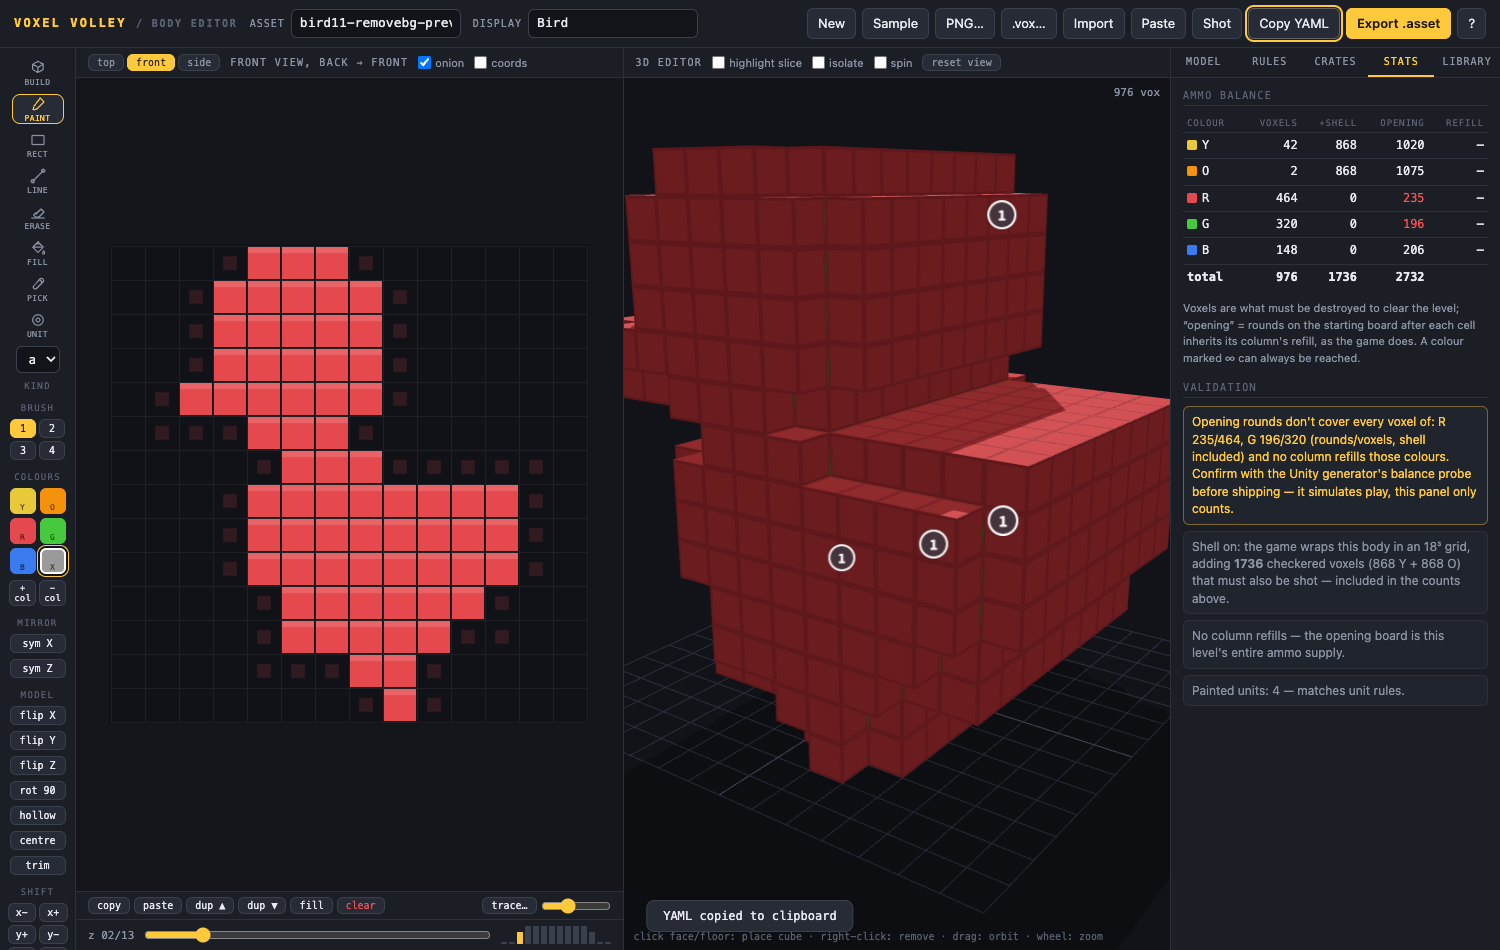
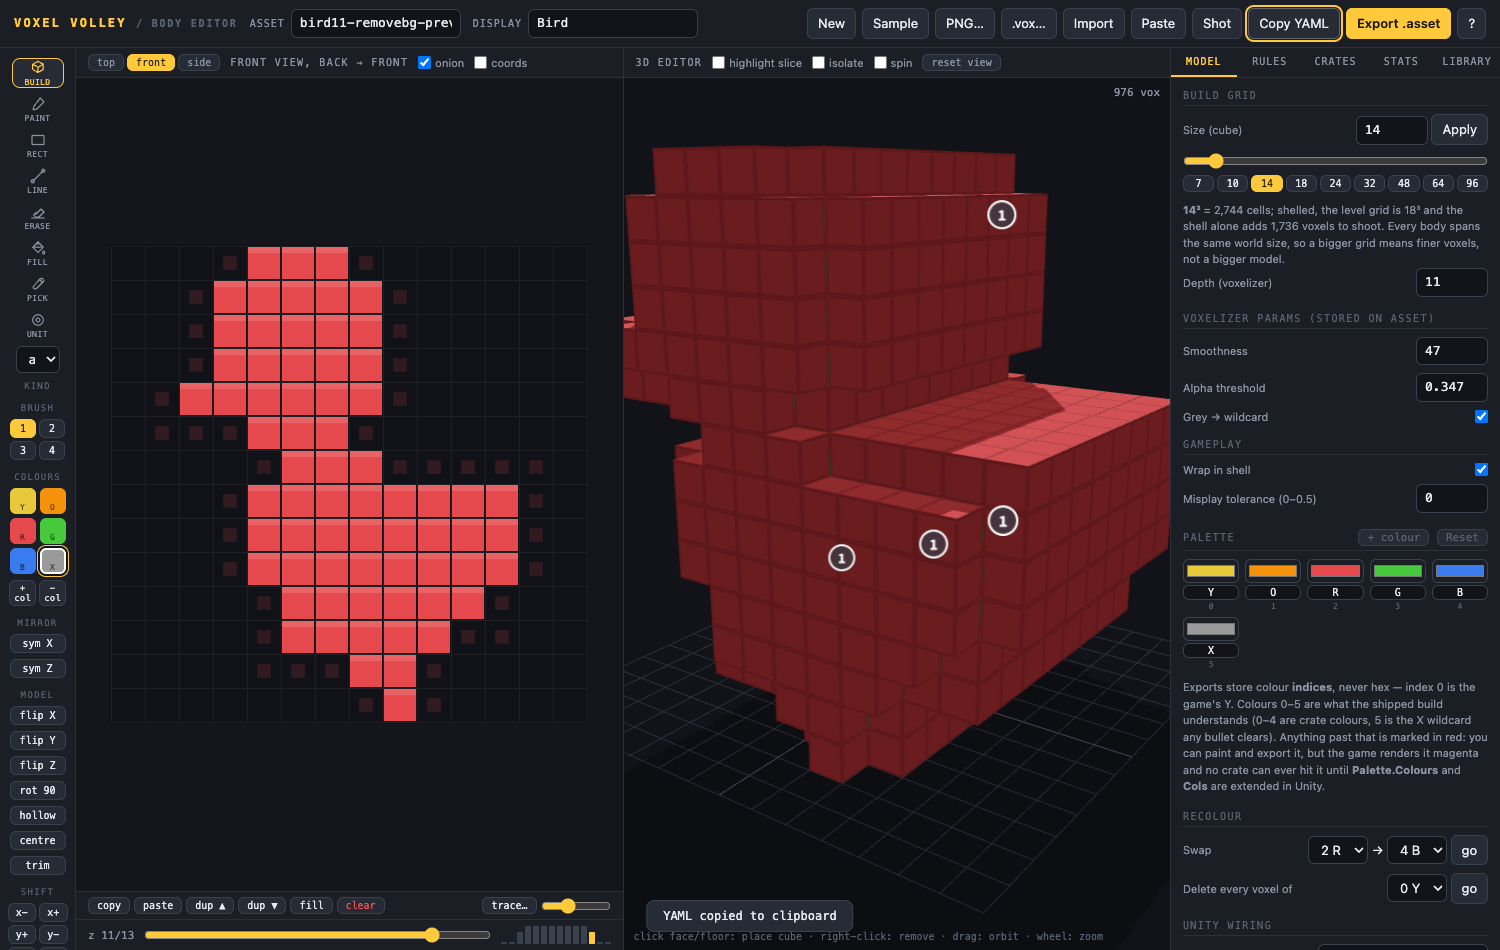
Make the build grid any size, and stop losing voxels when it shrinks
The size is now a first-class control: a number field, a slider that previews
live and applies on release, and presets from 7 to 96. No design cap — the
[Range(3, 24)] on VoxelBody.size only limits Unity's inspector slider, not what
deserializes, and VoxelCore is written for a variable grid, so any size imports
and plays. The Range warning is gone; raising it in VoxelBody.cs is the user's
call and the README says why they might want to.

The only remaining ceiling is MAX_N in state.js (128), and it is about browser
memory rather than the format or the game. Measured, all byte-identical:
32³ 0.1 MB / 4 ms, 64³ 1.0 MB / 30 ms, 96³ 3.4 MB / 89 ms, 128³ 8.0 MB / 228 ms.

Two real bugs surfaced while opening it up, both pre-existing:

- resizeGrid centred the old grid inside the new one, so shrinking shifted a
  model resting on the floor to a negative y and dropped it entirely — even a
  2×2×2 body being moved into an 8³ grid vanished. The shift is now clamped per
  axis so anything that FITS is always preserved, and the confirm prompt fires
  only when the content's own span genuinely exceeds the new size.
- trimToContent clamped to a hard-coded 24, so trimming a model larger than that
  silently clipped it.

Undo held 200 whole-grid snapshots, which at 128³ would be ~840 MB. The history
is now bounded by bytes as well as by count: still the full 200 steps at 14³, and
as many as fit on a huge grid. The 3D instance buffer is also demand-driven
[…]

diff --git a/js/state.js b/js/state.js
@@ -2,8 +2,18 @@
 // autosave and all views stay consistent.
 
 export const EMPTY = 255;
-// VoxelBody.size is [Range(3, 24)] in Unity — stay inside the supported envelope
-export const MIN_N = 3, MAX_N = 24;
+
+/* ---------- grid size ----------
+   The asset stores a CUBE of `size`, so the build volume is always size³ —
+   non-cubic grids are not expressible in the format.
+
+   MAX_N is a MEMORY ceiling, not a design rule: nothing in the format or in the
+   game caps the size (VoxelCore is written for a variable grid), so this is only
+   about what a browser tab can hold. The grids are two byte-per-cell arrays, the
+   undo history keeps snapshots of them, and an export writes size³ × 2 hex chars
+   per grid — at 128³ that is ~4 MB live, and a ~17 MB .asset. Raise it if you
+   need to; it is one number.                                                  */
+export const MIN_N = 3, MAX_N = 128;
 export const DEFAULT_GUID = '8154fcdcf86ef414a8a725fd872e9180';
 
 export function defaultMeta(){
@@ -113,6 +123,20 @@ export function axisInfo(axis = sel.sliceAxis){
 /* ---------- undo / redo ---------- */
 const undoStack = [], redoStack = [];
 const MAX_UNDO = 200;
+// Snapshots are two byte-per-cell copies of the grid, so a deep history on a big
+// grid is what would actually exhaust the tab: 200 × 128³ × 2 would be ~840 MB.
+// The history is therefore bounded by BYTES as well as by count — at 14³ that is
+// still the full 200 steps, and at 128³ it keeps as many as fit.
+const MAX_UNDO_BYTES = 192 * 1024 * 1024;
+function snapshotBytes(s){ return s.c.length + s.u.length; }
+function trimHistory(){
+  if(undoStack.length > MAX_UNDO) undoStack.splice(0, undoStack.length - MAX_UNDO);
+  let bytes = 0;
+  for(const s of undoStack) bytes += snapshotBytes(s);
+  while(undoStack.length > 1 && bytes > MAX_UNDO_BYTES) bytes -= snapshotBytes(undoStack.shift());
+}
+/** How deep the undo history currently is — surfaced in the UI for big grids. */
+export const undoDepth = () => undoStack.length;
 // snapshots deep-copy meta too: model-replacing paths (import/new/library load)
 // swap state.meta wholesale, and rules/crates mutate it in place — undo must
 // restore the full model, not just the voxels.
@@ -124,7 +148,7 @@ function snapshot(){
 }
 export function pushUndo(){
   undoStack.push(snapshot());
-  if(undoStack.length > MAX_UNDO) undoStack.shift();
+  trimHistory();
   redoStack.length = 0;
 }
 export function popUndo(){ undoStack.pop(); }     // for no-op edits
@@ -151,6 +175,26 @@ export function setGrid(n, colours, units){
   if(sizeChanged) emit('gridsize');
   emit('grid');
 }
+/** Bounding box of the solid voxels in the CURRENT grid, or null when empty. */
+export function contentBounds(){
+  const N = state.N;
+  let x0=N,y0=N,z0=N,x1=-1,y1=-1,z1=-1;
+  for(let z=0;z<N;z++) for(let y=0;y<N;y++) for(let x=0;x<N;x++){
+    if(state.colours[(x*N+y)*N+z] === EMPTY) continue;
+    if(x<x0)x0=x; if(y<y0)y0=y; if(z<z0)z0=z;
+    if(x>x1)x1=x; if(y>y1)y1=y; if(z>z1)z1=z;
+  }
+  return x1 < 0 ? null : {x0,y0,z0,x1,y1,z1};
+}
+/**
+ * Does the model still fit after resizing to `nn`? Only false when the content's
+ * own span exceeds the new grid, i.e. when voxels genuinely have to be cut.
+ */
+export function resizeWouldClip(nn){
+  const b = contentBounds();
+  if(!b) return false;
+  return (b.x1-b.x0+1) > nn || (b.y1-b.y0+1) > nn || (b.z1-b.z0+1) > nn;
+}
 export function resizeGrid(nn){
   nn = Math.max(MIN_N, Math.min(MAX_N, nn|0));
   if(nn === state.N) return false;
@@ -158,12 +202,23 @@ export function resizeGrid(nn){
   const on = state.N, oc = state.colours, ou = state.units;
   const nc = new Uint8Array(nn*nn*nn).fill(EMPTY);
   const nu = new Uint8Array(nn*nn*nn);
-  const off = Math.floor((nn-on)/2);
+
+  // Keep the model's position relative to the grid centre, but clamp the shift so
+  // content that FITS is never cut. Plain centring loses a model resting on the
+  // floor when shrinking (y0 would go negative), which is exactly where bodies sit.
+  const b = contentBounds();
+  let ox = Math.floor((nn-on)/2), oy = ox, oz = ox;
+  if(b){
+    const fit = (off, lo, hi) => Math.max(-lo, Math.min(nn-1-hi, off));
+    if((b.x1-b.x0+1) <= nn) ox = fit(ox, b.x0, b.x1);
+    if((b.y1-b.y0+1) <= nn) oy = fit(oy, b.y0, b.y1);
+    if((b.z1-b.z0+1) <= nn) oz = fit(oz, b.z0, b.z1);
+  }
   for(let z=0; z<on; z++) for(let y=0; y<on; y++) for(let x=0; x<on; x++){
-    const tx=x+off, ty=y+off, tz=z+off;
+    const tx=x+ox, ty=y+oy, tz=z+oz;
     if(tx<0||ty<0||tz<0||tx>=nn||ty>=nn||tz>=nn) continue;
-    nc[tx+ty*nn+tz*nn*nn] = oc[x+y*on+z*on*on];
-    nu[tx+ty*nn+tz*nn*nn] = ou[x+y*on+z*on*on];
+    nc[(tx*nn+ty)*nn+tz] = oc[(x*on+y)*on+z];
+    nu[(tx*nn+ty)*nn+tz] = ou[(x*on+y)*on+z];
   }
   setGrid(nn, nc, nu);
   return true;

diff --git a/js/main.js b/js/main.js
@@ -1,7 +1,7 @@
 // App bootstrap and wiring.
 
 import {
-  state, sel, EMPTY, defaultMeta,
+  state, sel, EMPTY, MIN_N, MAX_N, defaultMeta, resizeWouldClip,
   on, emit, pushUndo, undo, redo, setGrid, resizeGrid,
   voxelCount, serialize, deserialize,
 } from './state.js';
@@ -242,6 +242,37 @@ function wireToolRail(){
   });
 }
 
+/* ---------- build grid size ---------- */
+function syncSizeUI(){
+  const s = $('fSize'), r = $('fSizeRange');
+  if(!s) return;
+  s.value = state.N;
+  if(r) r.value = state.N;
+  document.querySelectorAll('[data-size]').forEach(b => {
+    const n = parseInt(b.dataset.size);
+    b.classList.toggle('on', n === state.N);
+  });
+  updateSizeNote(state.N);
+}
+function updateSizeNote(n){
+  const el = $('sizeNote');
+  if(!el) return;
+  const cells = n*n*n;
+  const shellN = state.meta.wrapInShell ? n + 4 : n;
+  const shell = state.meta.wrapInShell ? shellN**3 - (shellN-2)**3 : 0;
+  let msg = `<b>${n}³</b> = ${cells.toLocaleString()} cells`;
+  if(shell) msg += `; shelled, the level grid is ${shellN}³ and the shell alone adds ` +
+    `${shell.toLocaleString()} voxels to shoot`;
+  msg += '. Every body spans the same world size, so a bigger grid means finer voxels, not a bigger model.';
+  // measured: 128³ exports in ~230 ms to an 8 MB asset, so only really large
+  // grids are worth a word — 64³ is comfortable
+  if(cells > 500000)
+    msg += ` <span class="warnA">${cells.toLocaleString()} cells: rebuilds get slower, the undo history` +
+           ` gets shallower (it is memory-bounded) and the .asset will be around` +
+           ` ${Math.round(cells*4/1048576)} MB.</span>`;
+  el.innerHTML = msg;
+}
+
 /* ---------- palette ---------- */
 function renderSwatches(){
   const pal = $('palette');
@@ -429,11 +460,32 @@ function wireModelTab(){
     state.meta.crateRows = next;
     renderCrates();
   });
-  $('btnResize').addEventListener('click', () => {
-    if(resizeGrid(parseInt($('fSize').value) || state.N))
-      toast('Resized to ' + state.N + '³ (content centered)');
-    $('fSize').value = state.N;
+  /* ---------- build grid size ---------- */
+  const applySize = n => {
+    const want = Math.max(MIN_N, Math.min(MAX_N, n|0));
+    if(want === state.N){ syncSizeUI(); return; }
+    // only warn when voxels genuinely have to be cut — resizeGrid clamps the
+    // shift so anything that fits survives
+    if(resizeWouldClip(want) && !confirm(
+      `The model is bigger than ${want}³ and part of it will be cut off. ` +
+      `"trim" resizes to fit without losing anything. Continue?`)){
+      syncSizeUI();
+      return;
+    }
+    if(resizeGrid(want)) toast('Build grid is now ' + state.N + '³ (content centred)');
+    syncSizeUI();
+  };
+  $('btnResize').addEventListener('click', () => applySize(parseInt($('fSize').value) || state.N));
+  $('fSize').addEventListener('keydown', e => { if(e.key === 'Enter') applySize(parseInt($('fSize').value) || state.N); });
+  // the slider previews the number live and applies on release, so a drag does
+  // not rebuild the grid dozens of times
+  $('fSizeRange').addEventListener('input', e => {
+    $('fSize').value = e.target.value;
+    updateSizeNote(parseInt(e.target.value));
   });
+  $('fSizeRange').addEventListener('change', e => applySize(parseInt(e.target.value)));
+  document.querySelectorAll('[data-size]').forEach(b =>
+    b.addEventListener('click', () => applySize(parseInt(b.dataset.size))));
 
   renderPaletteEditor();
   renderColourSelects();
@@ -457,7 +509,8 @@ function wireModelTab(){
     toast(n ? `Deleted ${n} ${labelOf(c)} voxel(s)` : `No ${labelOf(c)} voxels`, !n);
   });
 
-  on('gridsize', () => { $('fSize').value = state.N; });
+  on('gridsize', syncSizeUI);
+  syncSizeUI();
 }
 
 /* =====================================================================

diff --git a/js/editor3d.js b/js/editor3d.js
@@ -159,18 +159,36 @@ function makeCubeMaterial(){
 }
 let cubeMaterial = null;
 
-function ensureCapacity(){
-  const need = state.N ** 3;
+/**
+ * Grows the instance buffer to hold `need` cubes.
+ *
+ * Demand-driven rather than sized to N³: a 64³ grid would reserve 262k instances
+ * (and their matrices) for a model that usually holds a few thousand voxels. It
+ * grows in generous steps and never shrinks, so painting does not reallocate.
+ */
+function ensureCapacity(need){
   if(voxMesh && voxCapacity >= need) return;
+  const grown = Math.min(state.N ** 3, Math.max(4096, Math.ceil(need * 1.5)));
   if(voxMesh){ scene.remove(voxMesh); voxMesh.dispose(); }
   if(!cubeMaterial) cubeMaterial = makeCubeMaterial();
-  voxMesh = new THREE.InstancedMesh(new THREE.BoxGeometry(1,1,1), cubeMaterial, need);
+  voxMesh = new THREE.InstancedMesh(new THREE.BoxGeometry(1,1,1), cubeMaterial, grown);
   voxMesh.castShadow = true;
   voxMesh.receiveShadow = true;
   voxMesh.instanceMatrix.setUsage(THREE.DynamicDrawUsage);
-  voxCapacity = need;
-  cellOfInstance = new Int32Array(need);
+  voxCapacity = grown;
+  cellOfInstance = new Int32Array(grown);
   scene.add(voxMesh);
+}
+/** Cubes the current cut will draw — what ensureCapacity has to cover. */
+function visibleCount(){
+  const N = state.N, c = state.colours;
+  let n = 0;
+  for(let z=0; z<N; z++) for(let y=0; y<N; y++) for(let x=0; x<N; x++){
+    if(c[idx(x,y,z)] === EMPTY) continue;
+    if(sel.isolate && cellToSlice(x,y,z).s > sel.slice) continue;
+    n++;
+  }
+  return n;
 }
 
 const _m = new THREE.Matrix4();
@@ -185,7 +203,7 @@ function cutNeedsRebuild(){
 }
 
 function rebuild(){
-  ensureCapacity();
+  ensureCapacity(visibleCount());
   const N = state.N, c = state.colours;
   let count = 0;
   for(let z=0; z<N; z++) for(let y=0; y<N; y++) for(let x=0; x<N; x++){

diff --git a/index.html b/index.html
@@ -159,10 +159,23 @@
     </div>
 
     <div class="tabpane active" id="tab-model">
-      <div class="sechead">Grid</div>
-      <div class="frow"><label for="fSize">Size (cube, 3–24)</label>
-        <span><input type="number" id="fSize" min="3" max="24"> <button id="btnResize">Apply</button></span></div>
-      <div class="frow"><label for="fDepth">Depth (voxelizer)</label><input type="number" id="fDepth" min="1" max="24"></div>
+      <div class="sechead">Build grid</div>
+      <div class="frow"><label for="fSize">Size (cube)</label>
+        <span><input type="number" id="fSize" min="3" max="128"> <button id="btnResize">Apply</button></span></div>
+      <input type="range" id="fSizeRange" min="3" max="128" class="wide" aria-label="Grid size">
+      <div class="sizePresets">
+        <button class="minibtn" data-size="7">7</button>
+        <button class="minibtn" data-size="10">10</button>
+        <button class="minibtn" data-size="14">14</button>
+        <button class="minibtn" data-size="18">18</button>
+        <button class="minibtn" data-size="24">24</button>
+        <button class="minibtn" data-size="32">32</button>
+        <button class="minibtn" data-size="48">48</button>
+        <button class="minibtn" data-size="64">64</button>
+        <button class="minibtn" data-size="96">96</button>
+      </div>
+      <p class="note" id="sizeNote"></p>
+      <div class="frow"><label for="fDepth">Depth (voxelizer)</label><input type="number" id="fDepth" min="1" max="128"></div>
       <div class="sechead">Voxelizer params (stored on asset)</div>
       <div class="frow"><label for="fSmooth">Smoothness</label><input type="number" id="fSmooth" min="0" max="100"></div>
       <div class="frow"><label for="fAlpha">Alpha threshold</label><input type="number" id="fAlpha" min="0" max="1" step="0.001"></div>

diff --git a/css/style.css b/css/style.css
@@ -167,11 +167,19 @@ table.rules .del:hover{border-color:var(--bad)}
 .note{color:var(--mut);font-size:11px;margin-top:10px;line-height:1.5}
 .okA{color:var(--good)}
 .badA{color:var(--bad)}
+.warnA{color:var(--acc)}
 ul.valid{list-style:none;font-size:12px;display:flex;flex-direction:column;gap:6px}
 ul.valid li{padding:6px 8px;border-radius:6px;border:1px solid var(--line);background:var(--panel2)}
 ul.valid li.vwarn{border-color:rgba(255,201,60,.4);color:var(--acc)}
 ul.valid li.vinfo{color:var(--mut)}
 ul.valid li.vok{color:var(--good)}
+
+/* grid size */
+input[type=range].wide{width:100%;accent-color:var(--acc);margin-bottom:6px}
+.sizePresets{display:flex;gap:3px;margin-bottom:6px;flex-wrap:wrap}
+.sizePresets .minibtn{width:auto;flex:1;min-width:26px;padding:2px 0}
+.sizePresets .minibtn.on{background:var(--acc);border-color:var(--acc);color:var(--acc-ink)}
+.sizePresets .minibtn.over{color:var(--acc)}
 
 /* palette editor */
 .palEdit{display:grid;grid-template-columns:repeat(auto-fill,minmax(46px,1fr));gap:6px;margin-bottom:8px}

diff --git a/js/asset.js b/js/asset.js
@@ -3,7 +3,7 @@
 // produced by the Unity tool — verified byte-identical on a round-trip of a
 // real asset. Change with care: the Unity importer and this file must agree.
 
-import { EMPTY, DEFAULT_GUID, defaultMeta } from './state.js';
+import { EMPTY, DEFAULT_GUID, defaultMeta, MIN_N, MAX_N } from './state.js';
 
 export function parseAsset(text){
   const lines = text.split(/\r?\n/);
@@ -33,7 +33,8 @@ export function parseAsset(text){
 
   const num = v => { const f = parseFloat(v); return Number.isFinite(f) ? f : 0; };
   const size = Math.round(num(top.size)) || Math.round(Math.cbrt((top.colours||'').length/2));
-  if(size < 2 || size > 64) throw new Error('Bad grid size: ' + size);
+  if(size < MIN_N || size > MAX_N)
+    throw new Error(`Bad grid size ${size} — this editor handles ${MIN_N}–${MAX_N}.`);
   const cells = size*size*size;
   const hexToArr = (hex, fillv) => {
     const a = new Uint8Array(cells).fill(fillv);

diff --git a/js/stats.js b/js/stats.js
@@ -197,8 +197,6 @@ export function updateStats(){
   const ruled = state.meta.unitRules.reduce((s,r) => s+r.count, 0);
 
   if(bodyTotal === 0) warn.push('Model is empty — nothing to export.');
-  if(state.N < 3 || state.N > 24)
-    warn.push(`Size ${state.N} is outside VoxelBody's supported range (3–24) and will be clamped in Unity.`);
   if(beyond)
     warn.push(`${beyond} voxel(s) use colour ${GAME_COLOURS} or above. This game build renders those magenta and no crate can ever mint their colour, so the level cannot be cleared. Extend <b>Palette.Colours</b> and <b>Cols</b> in Unity (and <b>CrateColourCount</b> if they should be shootable), then raise GAME_COLOURS in palette.js.`);
   if(body.other)

diff --git a/js/tools.js b/js/tools.js
@@ -3,7 +3,7 @@
 // everywhere.
 
 import {
-  state, sel, clip, EMPTY, idx, sliceIdx, sliceToCell, cellToSlice, inBounds,
+  state, sel, clip, EMPTY, MIN_N, MAX_N, idx, sliceIdx, sliceToCell, cellToSlice, inBounds,
   pushUndo, popUndo, emit,
 } from './state.js';
 import { colourCount } from './palette.js';
@@ -460,7 +460,7 @@ export function trimToContent(margin = 0){
   const b = bounds();
   if(!b) return 'model is empty';
   const span = Math.max(b.x1-b.x0, b.y1-b.y0, b.z1-b.z0) + 1 + 2*Math.max(0, margin);
-  const nn = Math.max(3, Math.min(24, span));
+  const nn = Math.max(MIN_N, Math.min(MAX_N, span));
   if(nn === state.N) return 'already tight';
 
   pushUndo();

diff --git a/README.md b/README.md
@@ -69,12 +69,49 @@ paid services: host it on GitHub Pages for free.
 | Slice editing | Cut along **any axis** — top view (stack layers bottom-up), front view (the elevation a sprite is drawn in), side view — with onion skin, occupancy strip, coordinate overlay, and a **tracing image** you can load behind the grid to draw over |
 | Tools | Build, paint, rectangle, **line**, erase, flood fill (slice area / 3D connected region), colour picker, unit placement; **brush sizes 1–4**; mirror-X / mirror-Z symmetry with live preview of every mirrored footprint |
 | Slice ops | Copy / paste a slice, duplicate it onto the neighbour and follow (hand extrusion), fill or empty a slice in one click |
-| Model ops | Flip X/Y/Z, rotate 90°, shift on any axis, hollow (remove enclosed interior), **centre** on the floor, **trim** the grid down to the model, resize with centering, undo/redo (200 steps) |
+| Build grid | Any cube size (slider, number field or presets) — see below; the model keeps its place when you resize and nothing that fits is ever cut |
+| Model ops | Flip X/Y/Z, rotate 90°, shift on any axis, hollow (remove enclosed interior), **centre** on the floor, **trim** the grid down to the model, undo/redo (memory-bounded history) |
 | Colours | The game's six (Y O R G B + X wildcard) with the real art hexes, each recolourable and relabellable; **add your own** past those six (see below); swap one colour for another or delete every voxel of a colour across the whole model |
 | Import | Unity `.asset` (file or pasted YAML), MagicaVoxel `.vox` (colours mapped to the game palette, near-greys → X wildcard), PNG voxelizer approximating the Unity pipeline |
 | Export | Unity `.asset` byte-identical format, robust download fallbacks, copy-as-YAML, PNG screenshot |
 | Level design | Layer rules, unit rules, the real 5-column crate board (column-major, per-crate flags, per-column refills) with auto-fill, ammo stats that include the checkered shell the game adds, validation for the traps the format hides (Auto cells inheriting an Empty refill, invalid unit kinds, units on empty cells, out-of-range colours, unit-rule mismatches, disconnected islands) |
 | Comfort | Keyboard shortcuts (press `?`), editable display palette, autosave, model library with thumbnails, shared team levels |
+
+## Build grid size
+
+The **Model** tab sets the grid: type a size, drag the slider, or take a preset
+(7 … 96). The model keeps its position when you resize, and shrinking only warns
+when voxels genuinely have to be cut — anything that still fits is preserved, so
+a body resting on the floor survives being shrunk. `trim` resizes to fit the
+model exactly without losing anything.
+
+Sizes are **not** capped to `VoxelBody.size`'s `[Range(3, 24)]`. That attribute
+only limits the inspector slider, not what deserializes, and `VoxelCore` is
+written for a variable grid — so any size imports and plays. Raise that `Range`
+in `VoxelBody.cs` if you want to drag the size in the inspector too, since a
+slider capped at 24 would otherwise snap a larger value down and leave `IsBaked`
+false.
+
+The only ceiling here is `MAX_N` in [`js/state.js`](js/state.js), currently
+**128**, and it is about browser memory rather than the format or the game.
+Measured round-trip cost (all byte-identical):
+
+| grid | cells | .asset | export | parse |
+|---|---|---|---|---|
+| 32³ | 32,768 | 0.1 MB | 4 ms | 3 ms |
+| 64³ | 262,144 | 1.0 MB | 30 ms | 16 ms |
+| 96³ | 884,736 | 3.4 MB | 89 ms | 45 ms |
+| 128³ | 2,097,152 | 8.0 MB | 228 ms | 90 ms |
+
+Undo keeps whole-grid snapshots, so its history is bounded by bytes as well as by
+step count — at 14³ that is the full 200 steps, and on a very large grid it keeps
+as many as fit rather than exhausting the tab. Raise `MAX_N` if you need more; it
+is one number.
+
+Remember that every body spans the same world size in game
+(`VoxelCore.ModelWorldSize`), so a bigger grid means **finer voxels**, not a
+bigger model — and with `wrapInShell` on, the shell scales with it too (the Model
+tab shows both counts).
 
 ## Adding colours past the game's six
 
